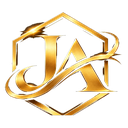
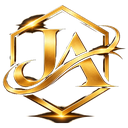
fix(branding): correct JA monogram aspect ratio circularity, eliminate dark edge halos, and refine SVG assets

diff --git a/index.html b/index.html
@@ -481,7 +481,7 @@
         <div class="w-11 h-11 rounded-xl bg-gradient-to-br from-abyss to-ink flex items-center justify-center shadow-md shadow-abyss/15 group-hover:scale-105 transition-transform overflow-hidden">
           <picture class="w-7 h-7 flex items-center justify-center select-none pointer-events-none">
             <source srcset="assets/ja-monogram.webp" type="image/webp">
-            <img src="assets/ja-monogram.png" alt="JA" class="w-7 h-7 object-contain drop-shadow-sm select-none pointer-events-none" width="28" height="28" loading="eager" decoding="async">
+            <img src="assets/ja-monogram.png" alt="Jubayer Ahamed Monogram" class="w-7 h-7 object-contain drop-shadow-sm select-none pointer-events-none" width="28" height="28" loading="eager" decoding="async">
           </picture>
         </div>
         <div>
@@ -808,7 +808,7 @@
               <div class="w-10 h-10 rounded-xl bg-white dark:bg-dark-surface flex items-center justify-center text-wave dark:text-gold shadow-sm overflow-hidden">
                 <picture class="w-5 h-5 flex items-center justify-center select-none pointer-events-none">
                   <source srcset="assets/ja-monogram.webp" type="image/webp">
-                  <img src="assets/ja-monogram.png" alt="JA" class="w-5 h-5 object-contain select-none pointer-events-none drop-shadow-sm" width="20" height="20" loading="lazy" decoding="async">
+                  <img src="assets/ja-monogram.png" alt="" aria-hidden="true" class="w-5 h-5 object-contain select-none pointer-events-none drop-shadow-sm" width="20" height="20" loading="lazy" decoding="async">
                 </picture>
               </div>
             </div>
@@ -1830,7 +1830,7 @@
             <div class="w-9 h-9 rounded-xl bg-ink flex items-center justify-center overflow-hidden">
               <picture class="w-6 h-6 flex items-center justify-center select-none pointer-events-none">
                 <source srcset="assets/ja-monogram.webp" type="image/webp">
-                <img src="assets/ja-monogram.png" alt="JA" class="w-6 h-6 object-contain select-none pointer-events-none drop-shadow-sm" width="24" height="24" loading="lazy" decoding="async">
+                <img src="assets/ja-monogram.png" alt="Jubayer Ahamed Monogram" class="w-6 h-6 object-contain select-none pointer-events-none drop-shadow-sm" width="24" height="24" loading="lazy" decoding="async">
               </picture>
             </div>
             <div>

diff --git a/tests/test_portfolio.py b/tests/test_portfolio.py
@@ -675,7 +675,27 @@ class TestPortfolioAudit(unittest.TestCase):
             self.assertEqual(img_webp.mode, 'RGBA', "WebP monogram must have alpha transparency channel")
             self.assertEqual(img_webp.size, (512, 512), "WebP monogram canvas must be 512x512")
 
-        # 4. Harmonized SVG assets integrity
+        # 4. Deep quality validation: aspect ratio circularity & edge decontamination
+        import numpy as np
+        with Image.open(png_path) as img_png:
+            arr_png = np.array(img_png)
+            alpha_ch = arr_png[:, :, 3]
+            ys, xs = np.where(alpha_ch > 15)
+            w = xs.max() - xs.min()
+            h = ys.max() - ys.min()
+            aspect_ratio = w / h
+            self.assertGreaterEqual(aspect_ratio, 0.95, f"Monogram must not be squashed vertically: ratio is {aspect_ratio:.3f}")
+            self.assertLessEqual(aspect_ratio, 1.06, f"Monogram must not be squashed horizontally: ratio is {aspect_ratio:.3f}")
+
+            # Verify edge pixels do not contain muddy dark-gray tones on white
+            rgb_ch = arr_png[:, :, :3].astype(float)
+            alpha_norm = (alpha_ch.astype(float) / 255.0)[:, :, None]
+            comp_white = (rgb_ch * alpha_norm + 255.0 * (1.0 - alpha_norm)).astype(np.uint8)
+            edge_mask = (alpha_ch > 10) & (alpha_ch < 200)
+            edge_comp = comp_white[edge_mask]
+            self.assertGreater(edge_comp[:, 0].mean(), 180.0, "Edge pixels blended on white must retain warm gold luminosity")
+
+        # 5. Harmonized SVG assets integrity
         fav_path = os.path.join(BASE_DIR, 'assets', 'favicon.svg')
         with open(fav_path, 'r', encoding='utf-8') as f:
             fav = f.read()
